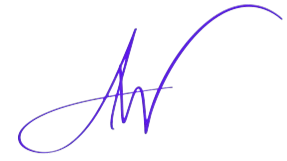
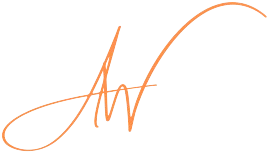
updated colors

Changed region(s): [[0.0, 0.0, 1.0, 0.987]]

diff --git a/src/components/Navbar.js b/src/components/Navbar.js
@@ -11,17 +11,17 @@ const Navbar = () => {
                     animate={{ opacity: 1, scale: 0.5 }}
                     transition={{ duration: 0.5 }} src="./1.png" className="full-name" />
                 <div className="socials">
-                    <a href="https://www.github.com/amywong24"><svg xmlns="http://www.w3.org/2000/svg" fill="none" viewBox="0 0 24 24" className="icon" width="1.5em" height="1.5em" stroke="white" strokeWidth="1" strokeLinecap="round" strokeLinejoin="round">
+                    <a href="https://www.github.com/amywong24"><svg xmlns="http://www.w3.org/2000/svg" fill="none" viewBox="0 0 24 24" className="icon" width="1.5em" height="1.5em" stroke="#02111B" strokeWidth="1" strokeLinecap="round" strokeLinejoin="round">
                         <path d="M9 19c-5 1.5-5-2.5-7-3m14 6v-3.87a3.37 3.37 0 0 0-.94-2.61c3.14-.35 6.44-1.54 6.44-7A5.44 5.44 0 0 0 20 4.77 5.07 5.07 0 0 0 19.91 1S18.73.65 16 2.48a13.38 13.38 0 0 0-7 0C6.27.65 5.09 1 5.09 1A5.07 5.07 0 0 0 5 4.77a5.44 5.44 0 0 0-1.5 3.78c0 5.42 3.3 6.61 6.44 7A3.37 3.37 0 0 0 9 18.13V22"></path>
                     </svg></a>
-                    <a href="https://www.linkedin.com/in/amykwong24/"><svg xmlns="http://www.w3.org/2000/svg" fill="none" viewBox="0 0 24 24" className="icon" width="1.5em" height="1.5em" stroke="white" strokeWidth="1" strokeLinecap="round" strokeLinejoin="round">
+                    <a href="https://www.linkedin.com/in/amykwong24/"><svg xmlns="http://www.w3.org/2000/svg" fill="none" viewBox="0 0 24 24" className="icon" width="1.5em" height="1.5em" stroke="#02111B" strokeWidth="1" strokeLinecap="round" strokeLinejoin="round">
                         <path d="M16 8a6 6 0 0 1 6 6v7h-4v-7a2 2 0 0 0-2-2 2 2 0 0 0-2 2v7h-4v-7a6 6 0 0 1 6-6z"></path>
                         <rect x="2" y="9" width="4" height="12"></rect>
                         <circle cx="4" cy="4" r="2"></circle>
                     </svg></a>
-                    <a href="https://www.instagram.com/amyy.wongg/"><svg xmlns="http://www.w3.org/2000/svg" fill="none" viewBox="0 0 24 24" className="icon" width="1.5em" height="1.5em" stroke="white" strokeWidth="1" strokeLinecap="round" strokeLinejoin="round">
-                        <rect x="2" y="2" width="20" height="20" rx="5" ry="5" stroke="white" fill="none"></rect>
-                        <circle cx="12" cy="12" r="3.5" stroke="white" fill="none"></circle>
+                    <a href="https://www.instagram.com/amyy.wongg/"><svg xmlns="http://www.w3.org/2000/svg" fill="none" viewBox="0 0 24 24" className="icon" width="1.5em" height="1.5em" stroke="#02111B" strokeWidth="1" strokeLinecap="round" strokeLinejoin="round">
+                        <rect x="2" y="2" width="20" height="20" rx="5" ry="5" stroke="#02111B" fill="none"></rect>
+                        <circle cx="12" cy="12" r="3.5" stroke="#02111B" fill="none"></circle>
                         <circle cx="17" cy="7" r="1" fill="white"></circle>
                     </svg>
                     </a>

diff --git a/src/components/Hero.scss b/src/components/Hero.scss
@@ -4,7 +4,6 @@
     height:calc(100vh - 100px);
     overflow: hidden;
     position: relative;
-    background-color: linear-gradient(180deg, #17153B, #433D8B);
 
     .wrapper {
         max-width: 1366px;
@@ -31,7 +30,7 @@
 
             h2 {
                 font-size: 30px;
-                color: #C8ACD6;
+                color: #70163c;
                 letter-spacing: 5px;
             }
 
@@ -49,10 +48,10 @@
 
                 button {
                     padding: 20px;
-                    border: 1px solid white;
+                    border: 1px solid #FCF7FF;
                     border-radius: 15px;
                     background-color: transparent;
-                    color: white;
+                    color: #FCF7FF;
                     margin-right: 15px;
                     cursor: pointer;
                 }
@@ -86,7 +85,7 @@
         font-size: 40vh;
         bottom: -120px;
         white-space: nowrap;
-        color: #b6bbc410;
+        color: #fcf7ff33;
         font-weight: bold;
         width: 90%;
         left: 0;

diff --git a/src/components/Contact.scss b/src/components/Contact.scss
@@ -76,23 +76,28 @@
             input, textarea {
                 padding: 15px;
                 background-color: transparent;
-                border: 1px solid white;
-                color: white;
+                border: 1px solid #FCF7FF;
                 border-radius: 5px;
                 width: 100%;
+                color: #FCF7FF;
 
                 @include mobile {
                     padding: 5px;
+                }
+
+                &::placeholder {
+                    color: #FCF7FF;
                 }
             }
 
             button {
                 padding: 15px;
                 border: none;
-                background-color: #C8ACD6;
+                background-color: #70163c;
                 font-weight: 500;
                 cursor: pointer;
                 border-radius: 20px;
+                color: #FCF7FF;
 
                 @include mobile {
                     padding: 10px;

diff --git a/src/components/Sidebar.scss b/src/components/Sidebar.scss
@@ -3,8 +3,8 @@
     flex-direction: column;
     align-items: center;
     justify-content: center;
-    background-color: #C8ACD6;
-    color: #433D8B;
+    background-color: #FCF7FF;
+    color: #70163c;
 
     .bg {
         z-index: 999;
@@ -13,7 +13,7 @@
         left: 0;
         bottom: 0;
         width: 400px;
-        background-color: #C8ACD6;
+        background-color: #FCF7FF;
 
         .links {
             position: absolute;
@@ -33,8 +33,8 @@
 
     button {
         z-index: 999;
-        width: 52px;
-        height: 52px;
+        width: 53px;
+        height: 53px;
         border-radius: 50%;
         position: fixed;
         top: 25px;

diff --git a/src/components/Parallax.js b/src/components/Parallax.js
@@ -17,8 +17,8 @@ const Parallax = ({ type }) => {
         <div className="parallax" ref={ref} style={{
             background:
                 type === "about"
-                    ? "linear-gradient(180deg, #17153B, #31304D)"
-                    : "linear-gradient(180deg, #17153B, #C8ACD6)",
+                    ? "linear-gradient(180deg, #AE847E, #70163c)"
+                    : "linear-gradient(180deg, #AE847E, #fcf7ff)",
         }}>
             <motion.h1 style={{y: yText}}>{type === "about" ? "About Me" : "Projects"}</motion.h1>
             <motion.div className="city" style={{ backgroundImage: `url(/city.png)` }}></motion.div>

diff --git a/src/components/projects.scss b/src/components/projects.scss
@@ -18,7 +18,7 @@
 
         .progressBar {
             height: 10px;
-            background-color: #C8ACD6;
+            background-color: #70163c;
         }
     }
 
@@ -97,12 +97,13 @@
             }
 
             button {
-                background-color: #C8ACD6;
+                background-color: #70163c;
                 border: none;
                 border-radius: 10px;
                 padding: 20px;
                 width: 200px;
                 cursor: pointer;
+                color: white;
             }
         }
     }

diff --git a/src/components/Navbar.scss b/src/components/Navbar.scss
@@ -18,8 +18,8 @@
     }
 
     .full-name {
-        width: 350px;
-        height: 350px;
+        width: 400px;
+        height: 200px;
 
         @include mobile {
             display: none;

diff --git a/src/App.scss b/src/App.scss
@@ -11,8 +11,8 @@ html {
 }
 
 body {
-    background-color: #17153B;
-    color: #F0ECE5;
+    background-color: #AE847E;
+    color: #FCF7FF;
 }
 
 a {

diff --git a/src/components/Parallax.scss b/src/components/Parallax.scss
@@ -11,6 +11,7 @@
 
     h1 {
         font-size: 100px;
+        color: #fcf7ff;
 
         @include mobile {
             font-size: 50px;
